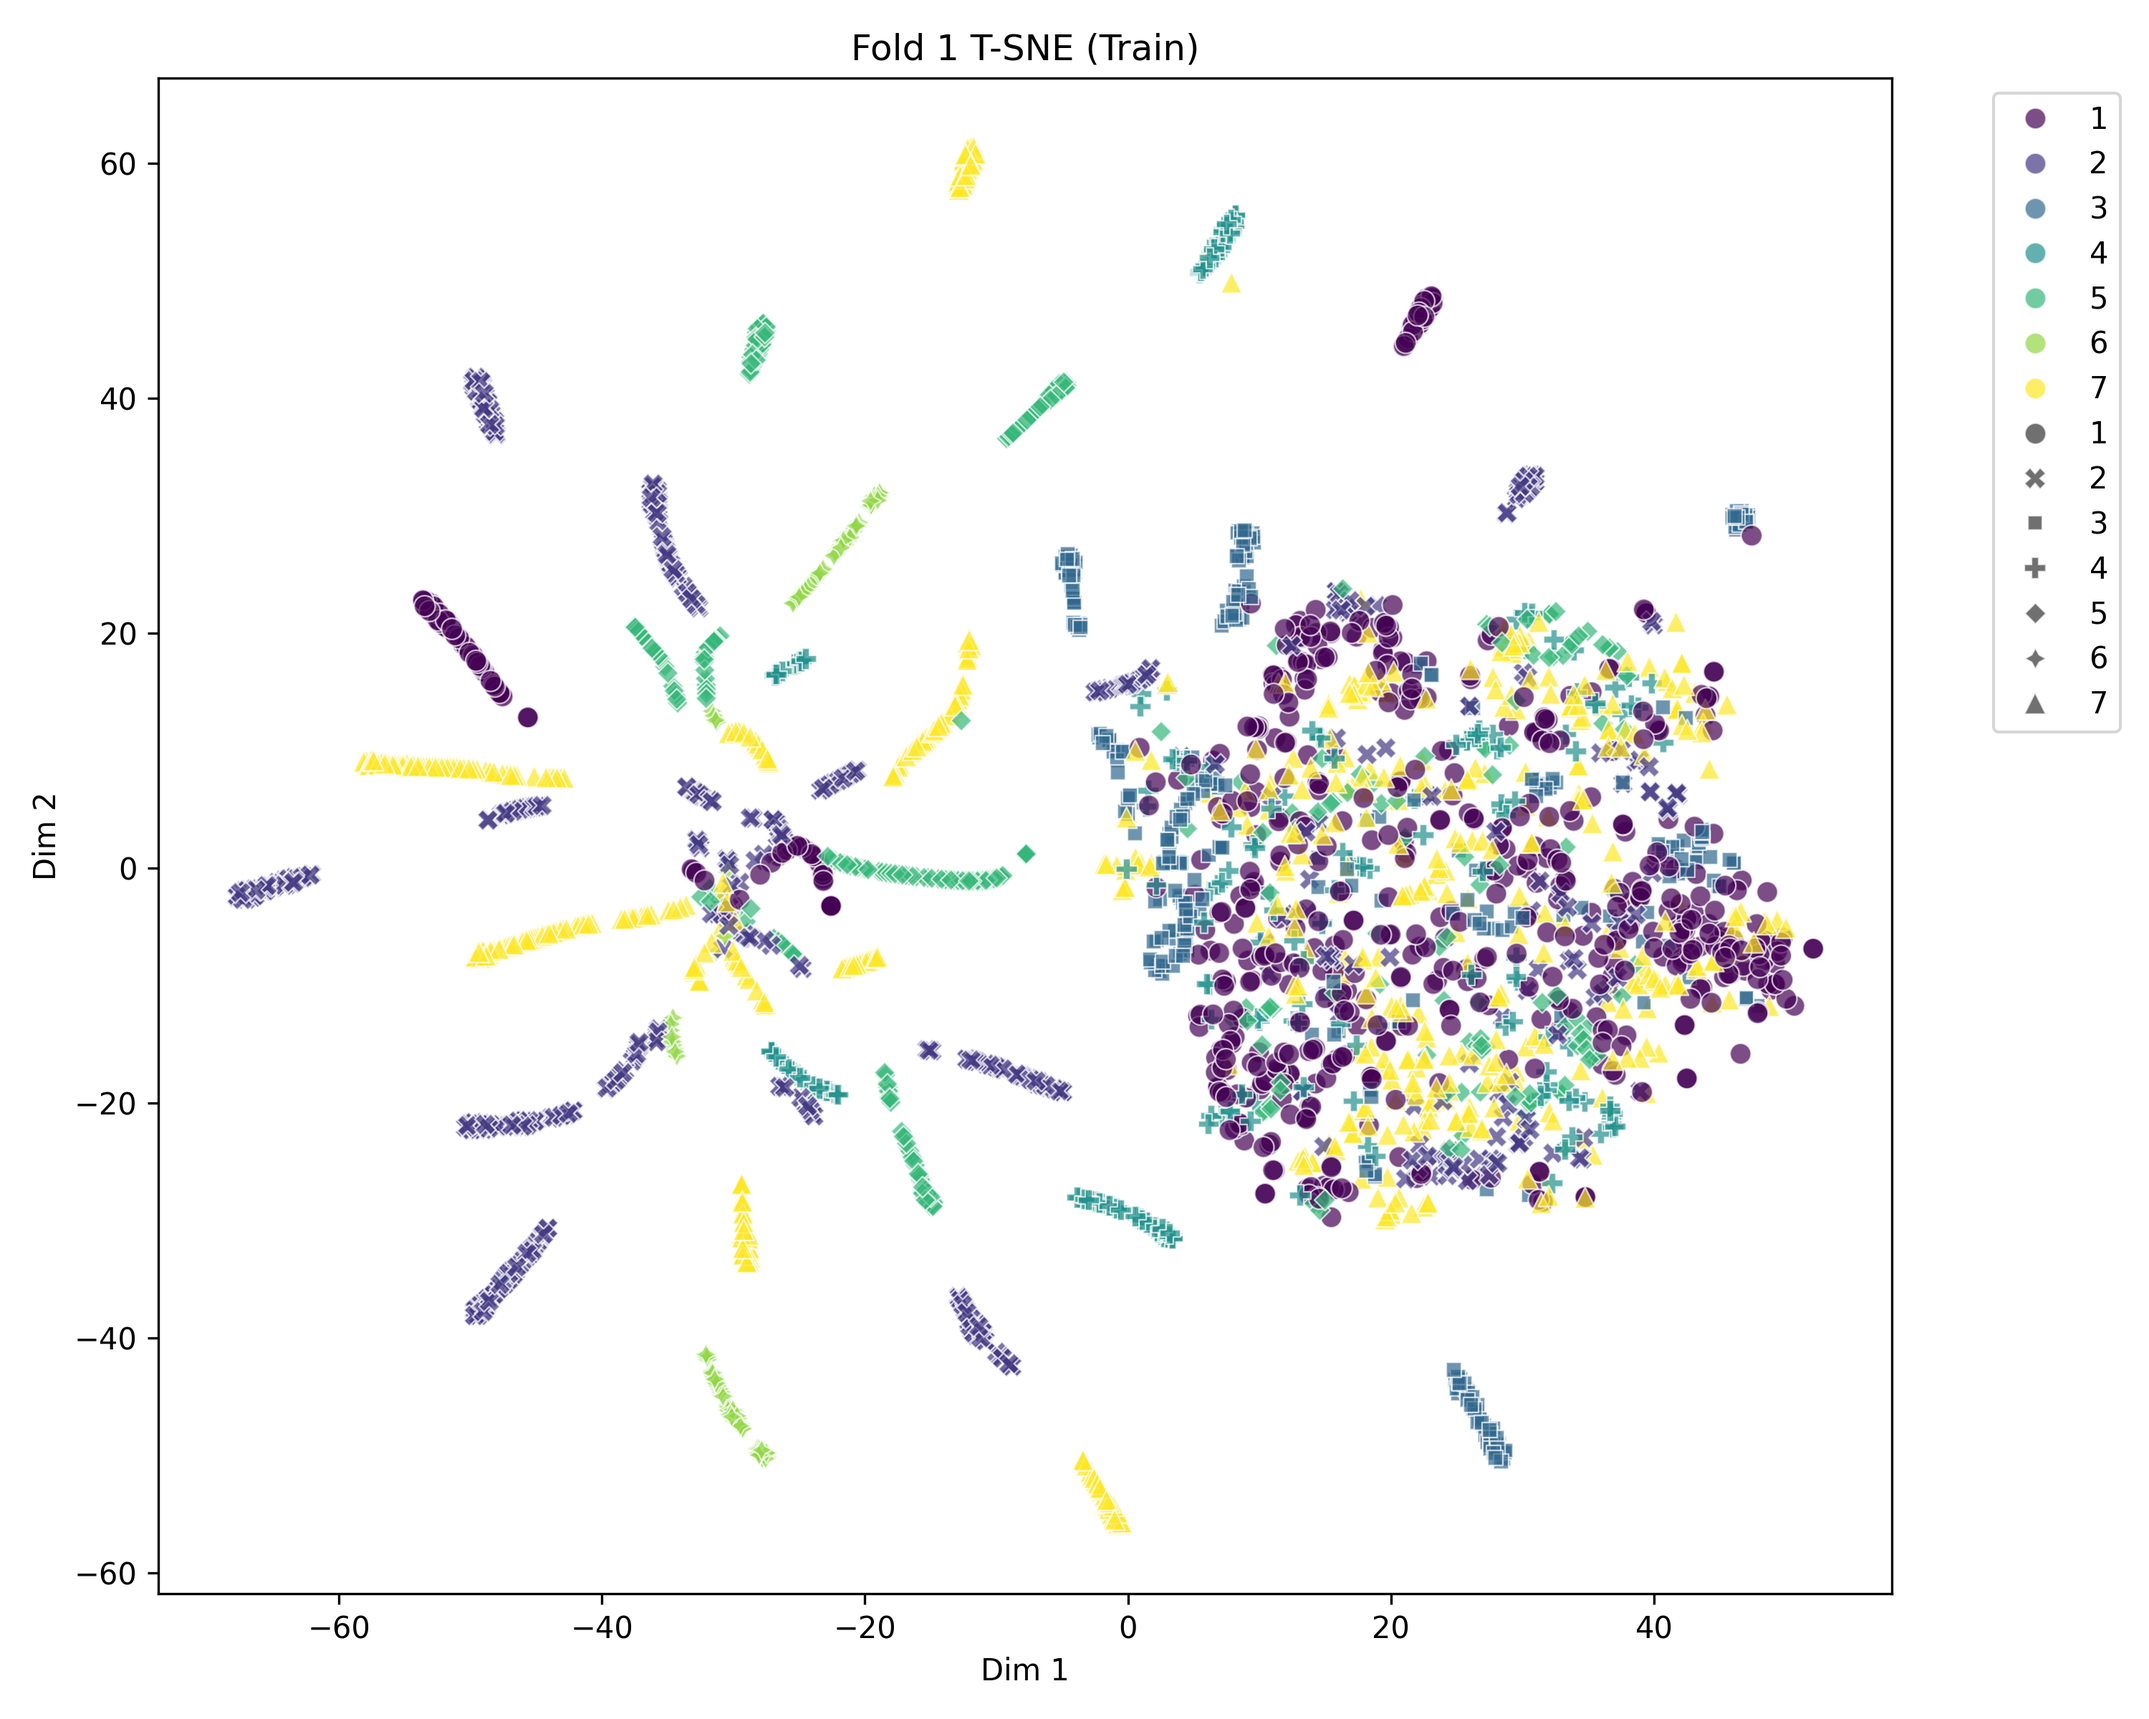
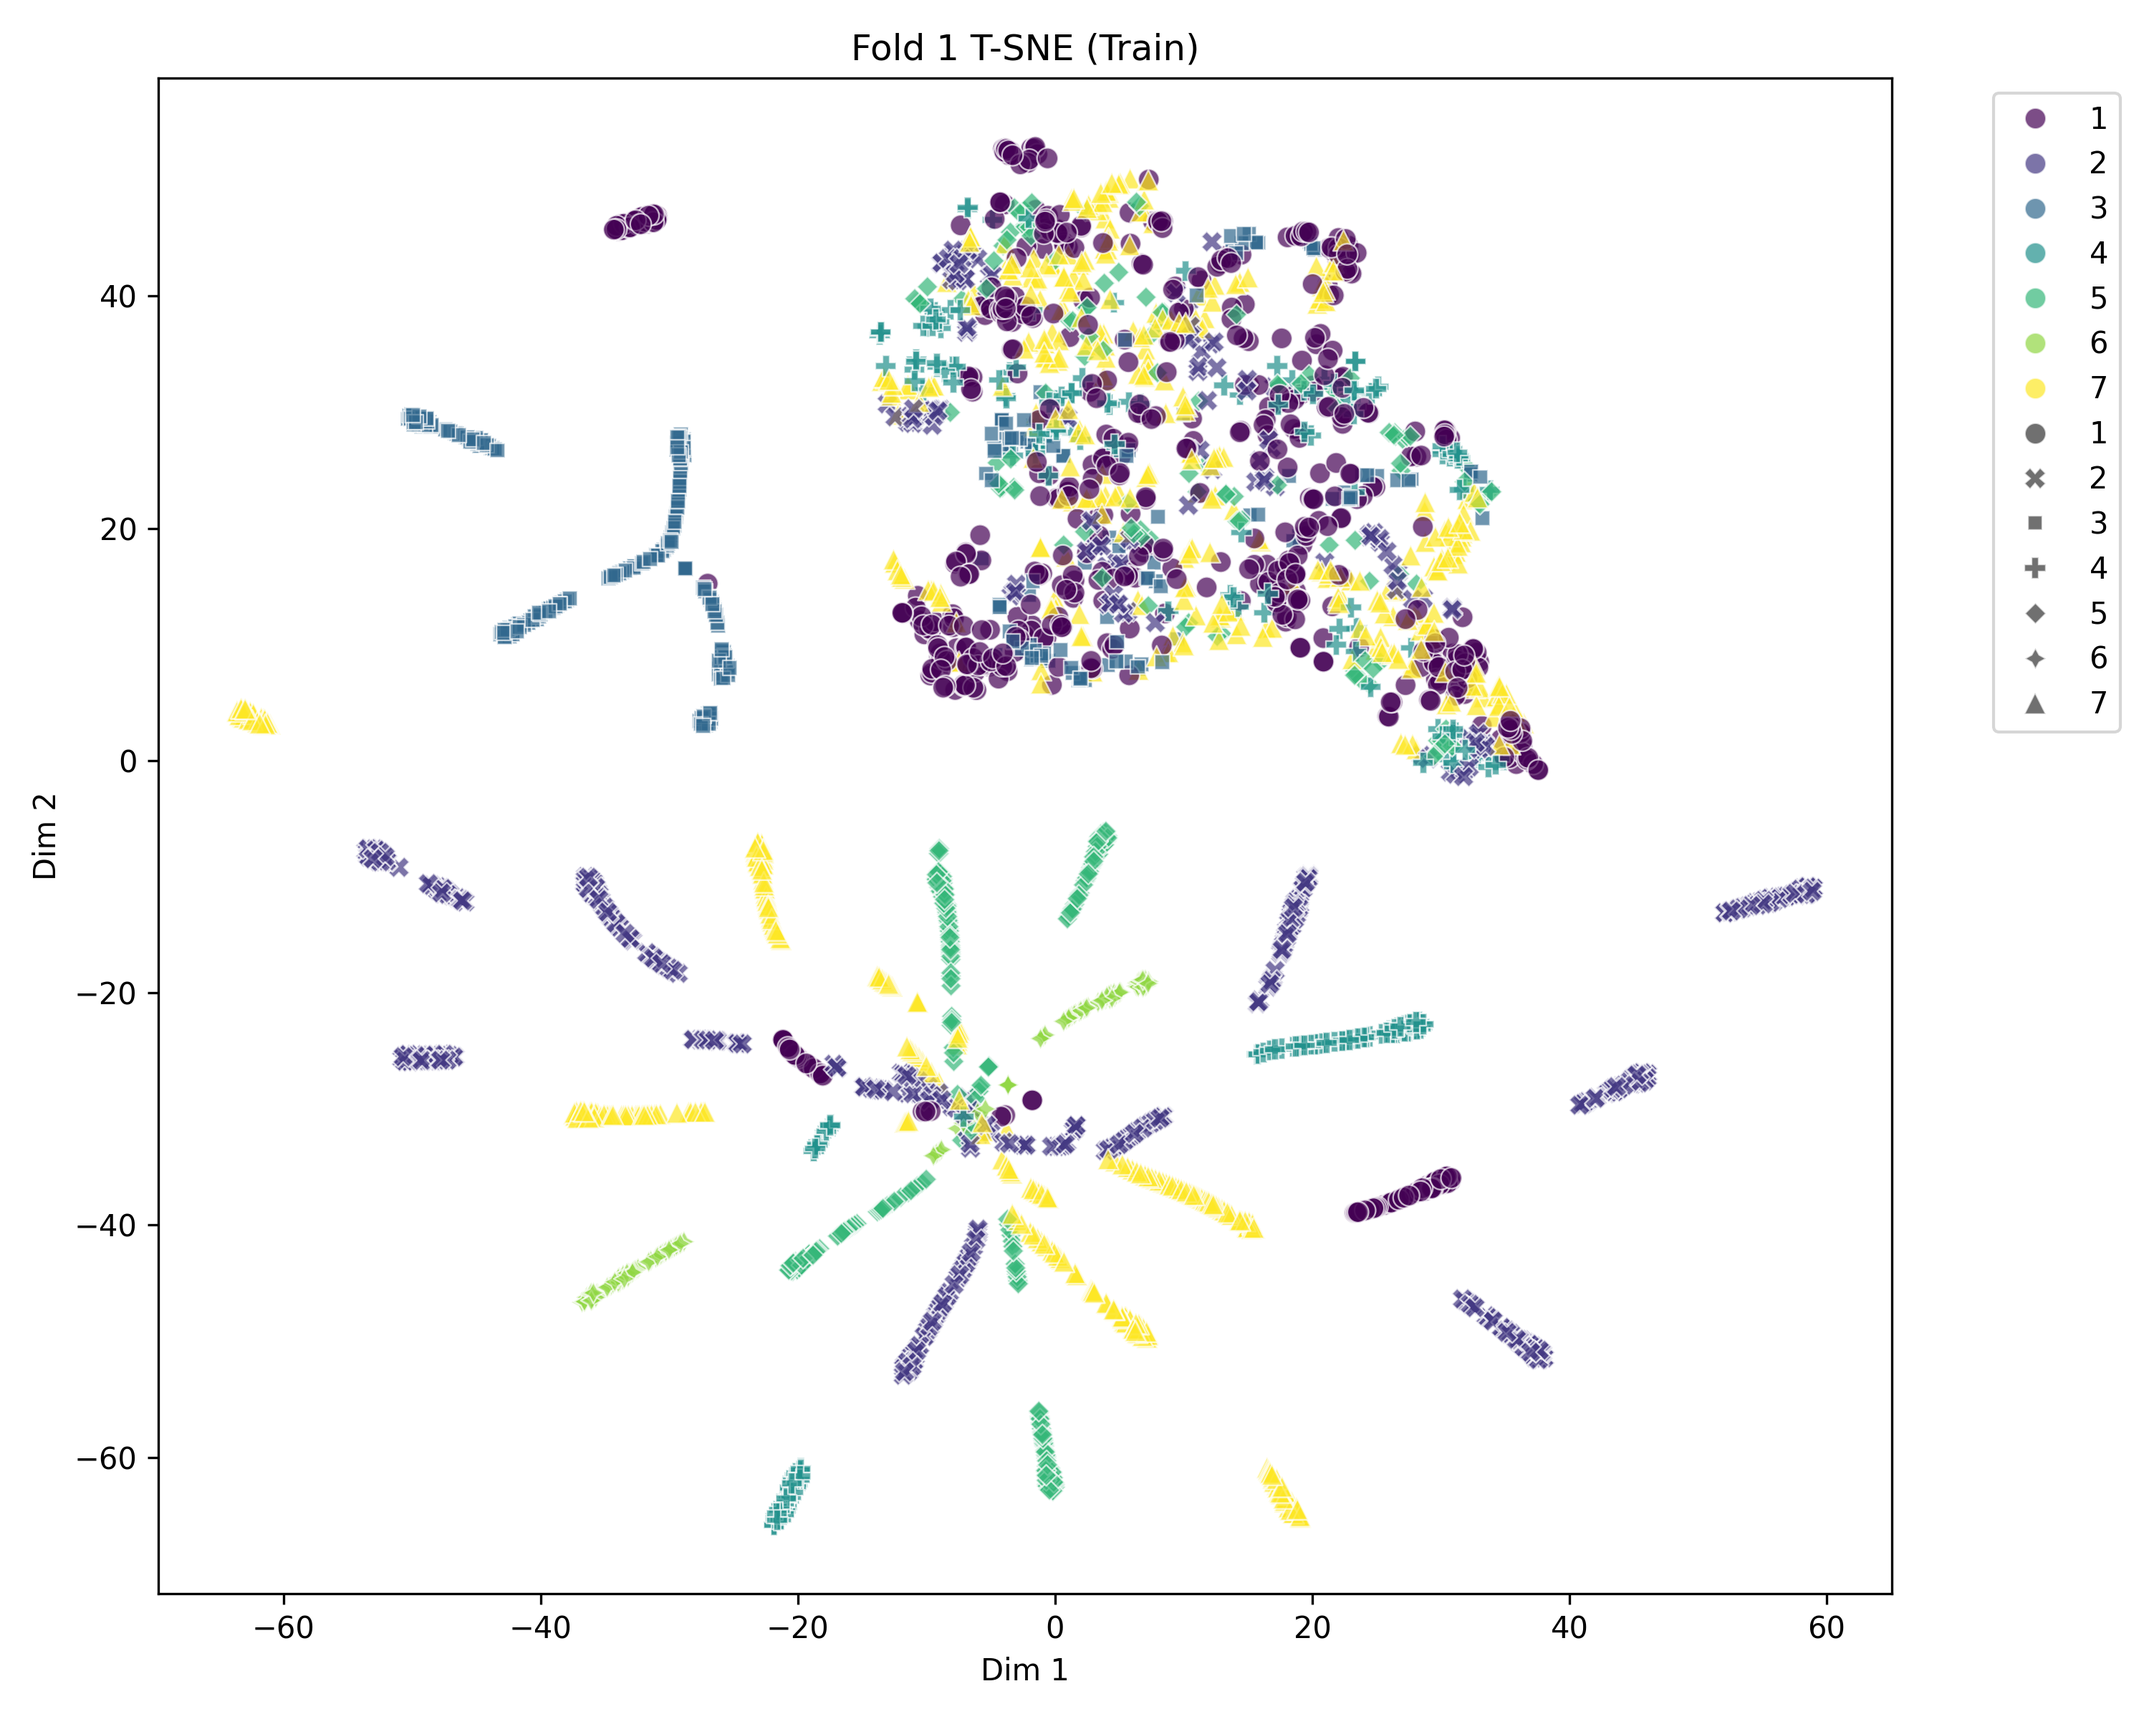
modify training

diff --git a/ts2vec_modified_pipeline.py b/ts2vec_modified_pipeline.py
@@ -16,6 +16,7 @@ import numpy as np
 from sklearn.manifold import TSNE
 import seaborn as sns
 import pandas as pd
+from sklearn.preprocessing import StandardScaler
 
 
 def setup_dataset(processed_data_folder):
@@ -71,7 +72,7 @@ class DilatedConvEncoder(nn.Module):
     논문에 기술된 Dilated CNN 아키텍처입니다.
     입력 투영(Input Projection) -> 타임스탬프 마스킹(Masking) -> Dilated CNN 순서로 처리합니다.
     """
-    def __init__(self, in_channels, out_channels, hidden_size=64, depth=10):
+    def __init__(self, in_channels, out_channels, hidden_size=64, depth=8):
         super().__init__()
         self.input_fc = nn.Linear(in_channels, hidden_size) # Input Projection Layer [cite: 86]
         
@@ -170,11 +171,11 @@ def temporal_contrastive_loss(z1, z2):
 
 class TS2Vec:
     """사용자가 데이터를 넣기 쉽도록 만든 래퍼 클래스"""
-    def __init__(self, input_dims, output_dims=320, hidden_dims=64, depth=10, device='cuda'):
+    def __init__(self, input_dims, output_dims=320, hidden_dims=64, depth=8, device='cuda'):
         self.device = device
         self.hidden_dims = hidden_dims
         self.model = DilatedConvEncoder(input_dims, output_dims, hidden_dims, depth).to(device)
-        self.optimizer = torch.optim.AdamW(self.model.parameters(), lr=0.001)
+        self.optimizer = torch.optim.AdamW(self.model.parameters(), lr=0.0001)
         
     def fit(self, train_data, n_epochs=20, batch_size=8):
         """
@@ -182,8 +183,12 @@ class TS2Vec:
         train_data shape: (N_samples, Time_length, Features)
         """
         self.model.train()
-        train_tensor = torch.from_numpy(train_data).float().to(self.device)
-        N, T, F_dim = train_tensor.shape
+        
+        N, T, F_dim = train_data.shape
+        scaler = StandardScaler()
+        input_data_scaled = scaler.fit_transform(train_data.reshape(-1, F_dim)).reshape(N, T, F_dim)
+        
+        train_tensor = torch.from_numpy(input_data_scaled).float().to(self.device)
         
         for epoch in range(n_epochs):
             idx = np.random.permutation(N)
@@ -207,8 +212,8 @@ class TS2Vec:
                 
                 # Timestamp Masking 생성 (Bernoulli p=0.5) [cite: 132]
                 
-                mask1 = torch.from_numpy(np.random.binomial(1, 0.5, size=(x1.shape[0], x1.shape[1], 1))).to(self.device).float()
-                mask2 = torch.from_numpy(np.random.binomial(1, 0.5, size=(x2.shape[0], x2.shape[1], 1))).to(self.device).float()
+                mask1 = torch.from_numpy(np.random.binomial(1, 0.3, size=(x1.shape[0], x1.shape[1], 1))).to(self.device).float()
+                mask2 = torch.from_numpy(np.random.binomial(1, 0.3, size=(x2.shape[0], x2.shape[1], 1))).to(self.device).float()
                 
                 # Forward Pass (두 개의 뷰 생성)
                 z1 = self.model(x1, mask1)
@@ -219,8 +224,8 @@ class TS2Vec:
                 loss.backward()
                 self.optimizer.step()
                 epoch_loss += loss.item()
-                
-            print(f"Epoch {epoch+1}/{n_epochs} | Loss: {epoch_loss / (N//batch_size):.4f}")
+            if (epoch+1) % 10 == 0:
+                print(f"Epoch {epoch+1}/{n_epochs} | Loss: {epoch_loss / (N//batch_size):.4f}")
 
     def encode(self, data, batch_size=8):
         """
@@ -260,9 +265,10 @@ def visualize_embeddings(embeddings, labels, fold_idx, save_dir, suffix="Test"):
         labels = np.array(labels)
 
     # NaN 값 안전 장치 (이전 에러 방지)
-    if np.isnan(embeddings).any():
+    if np.isnan(embeddings).any() or np.isinf(embeddings).any():
         print(f"⚠ Warning: NaN found in {suffix} embeddings. Replacing with 0 for visualization.")
         embeddings = np.nan_to_num(embeddings)
+        embeddings[np.isinf(embeddings)] = 0
 
     print(f"Generating T-SNE for Fold {fold_idx} ({suffix})...")
     
@@ -271,7 +277,9 @@ def visualize_embeddings(embeddings, labels, fold_idx, save_dir, suffix="Test"):
         n_components=2, 
         random_state=42, 
         perplexity=30, 
-        max_iter=1000
+        max_iter=1000,
+        init='random',
+        learning_rate='auto'
     )
     
     # 데이터가 너무 많으면 시간이 오래 걸리므로 3000개 정도로 샘플링하는 것도 방법
@@ -369,7 +377,6 @@ def run_kfold_experiment(dataset, stroke_type, joint_type, body_part, k=5, epoch
 
         train_embeddings = model.encode(train_data)
         
-        print(f"추출된 표현의 형태: {train_embeddings.shape}")
 
         visualize_embeddings(
             train_embeddings, 
@@ -422,8 +429,8 @@ def main():
                 joint_type=joint_type,
                 body_part=body_part,
                 k=5,
-                epoch=20,
-                batch_size=16,
+                epoch=1,
+                batch_size=64,
                 hidden_dim=64,
                 output_dim=64,
                 device=device,
